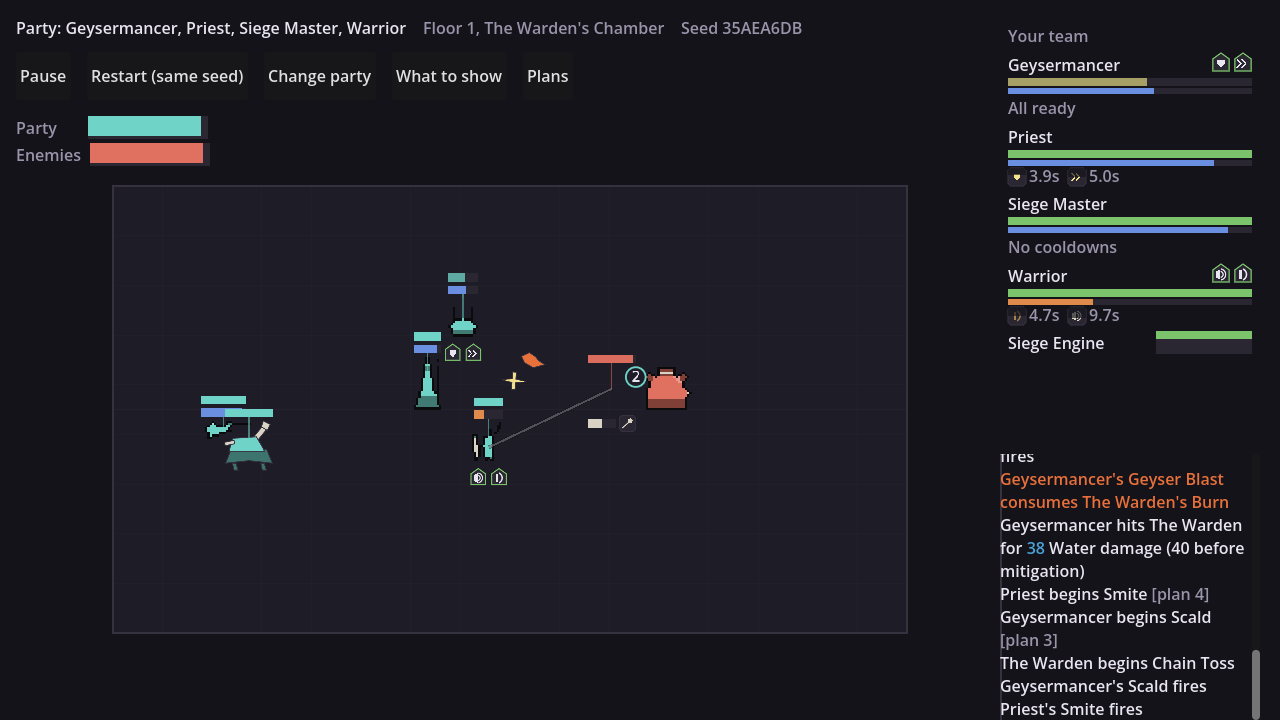
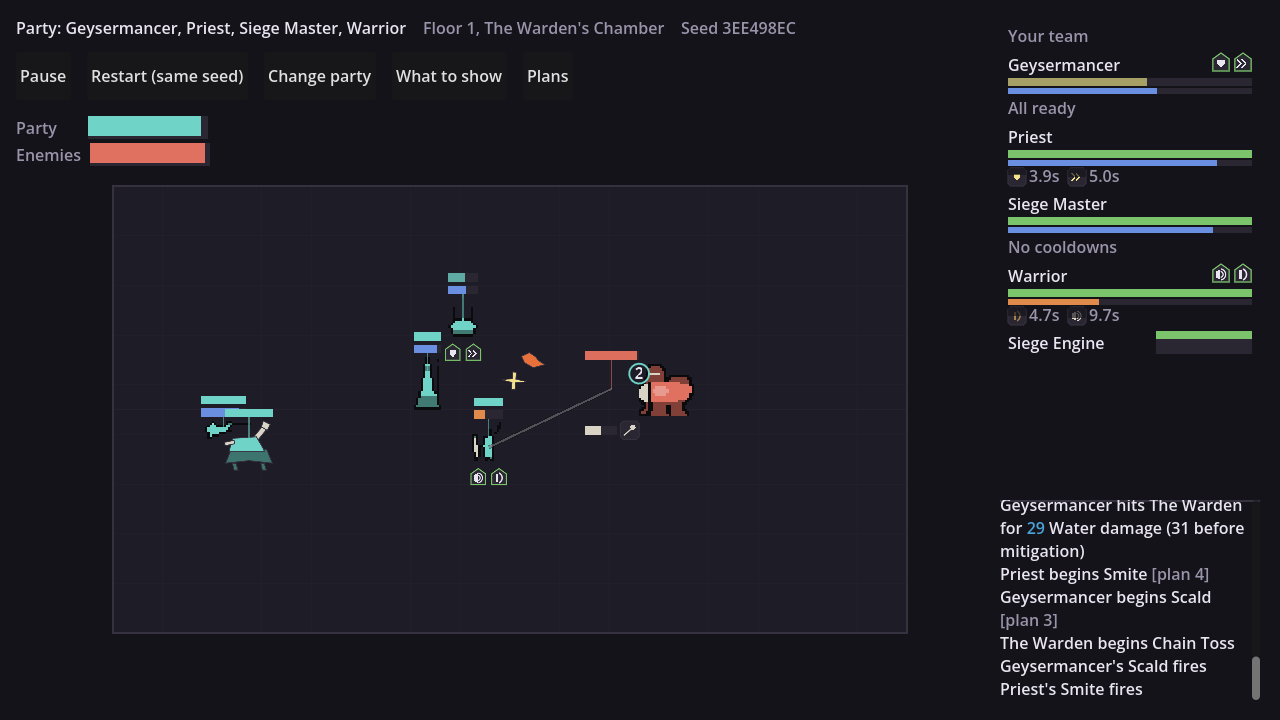
The Warden reads as a creature and points at you (#241)
The player, watching it at true size in a real fight now that the room is
pickable:

    "It reads as an object, not a creature -- horizontal axis, squat mass with
    a lintel, looks like furniture beside the pawns."

Both halves of that were caused by the same two decisions in the sprite. The
helm was inlaid FLUSH along the top edge, so the top line was one flat lintel
with no head standing above it; and the unit was mirror-symmetric, pauldron for
pauldron, so it had no front. Screenshots/warden_silhouette_241.png is the
before and after side by side, at true size and at 4x, plus a Warrior for scale.

WHAT CHANGED

  1. The head is a lobe of its own, above the shoulder line and forward, with
     open sky between it and the hunched back. That notch is the whole
     "creature, not furniture" cue and it is the first thing to protect in a
     redraw.
  2. Four cues agree on which way it faces: helm forward and low, visor slit
     breaking the front edge, back hunched behind, front foot ahead of the rear
     one. One detail carrying facing is one detail a player can miss.
  3. Mass stays the read, per the rule this file was drawn to before: the axe
     is planted at the bottom of the FRONT, not raised over the top, so nothing
     competes with the head for the top line.

AND ITS BOX IS SQUARE NOW, WHICH IS WHERE THE SIZE CAME FROM

The Warden's collision radius is 22 -- exactly a pawn's default. Nothing in the
[…]

diff --git a/Assets/Units/README.md b/Assets/Units/README.md
@@ -54,6 +54,32 @@ keep is the contradiction. Its only heavy cue is that it *points* — a straight
 needle held level, clear of the body. It is the one unit in the game aiming at
 you, and everything else about it is slight.
 
+**The Warden has to read as a creature and it has to point.** Issue #241, from
+the player watching it at true size: *"It reads as an object, not a creature —
+horizontal axis, squat mass with a lintel, looks like furniture beside the
+pawns."* Two things fixed that and both are worth keeping in a replacement.
+**The head is a lobe of its own, standing above the shoulder line and forward**,
+with open space between it and the hunched back; inlaid flush in the top edge it
+was a moulding, not a head. And **four cues agree on which way it faces** — helm
+forward, visor slit breaking the front edge, back hunched behind, front foot
+ahead of the rear one — because facing is information the simulation really
+keeps (`CombatUnit.facing` gates the Warrior's guard) and one detail carrying it
+is one detail a player can miss.
+
+**Its box is square, and that is where its size comes from.** The Warden's
+collision radius is 22, exactly a pawn's, so nothing about the fight makes it
+big; the only mass available to it is the box, and the file's *longest* side is
+what spans the unit's diameter. The old file was 24x19 and threw away a fifth of
+the height it was allowed. Replace it with a square one.
+
+**The chain is gone from the sprite and that is a deliberate loss.** It was the
+one silhouette detail no other unit had, for the 270-range chain toss. At 24
+pixels every version of it came out as two or three cream pixels beside the body
+that read as dirt, and in this palette pale is the loudest colour on the unit. It
+survives where there is resolution for it: the action icon, the projectile, and
+the polygon fallback in `Scripts/Art/Silhouettes.gd`. If you redraw the Warden at
+a size that can carry a chain, put it back.
+
 **The Rat King and the rat are a pair and should be replaced as one.** The
 README describes the miniboss as *"a big collection of rats joined at the tail"*
 whose attacks *"leave behind rats"*, so the fight is a pile of the very thing it
